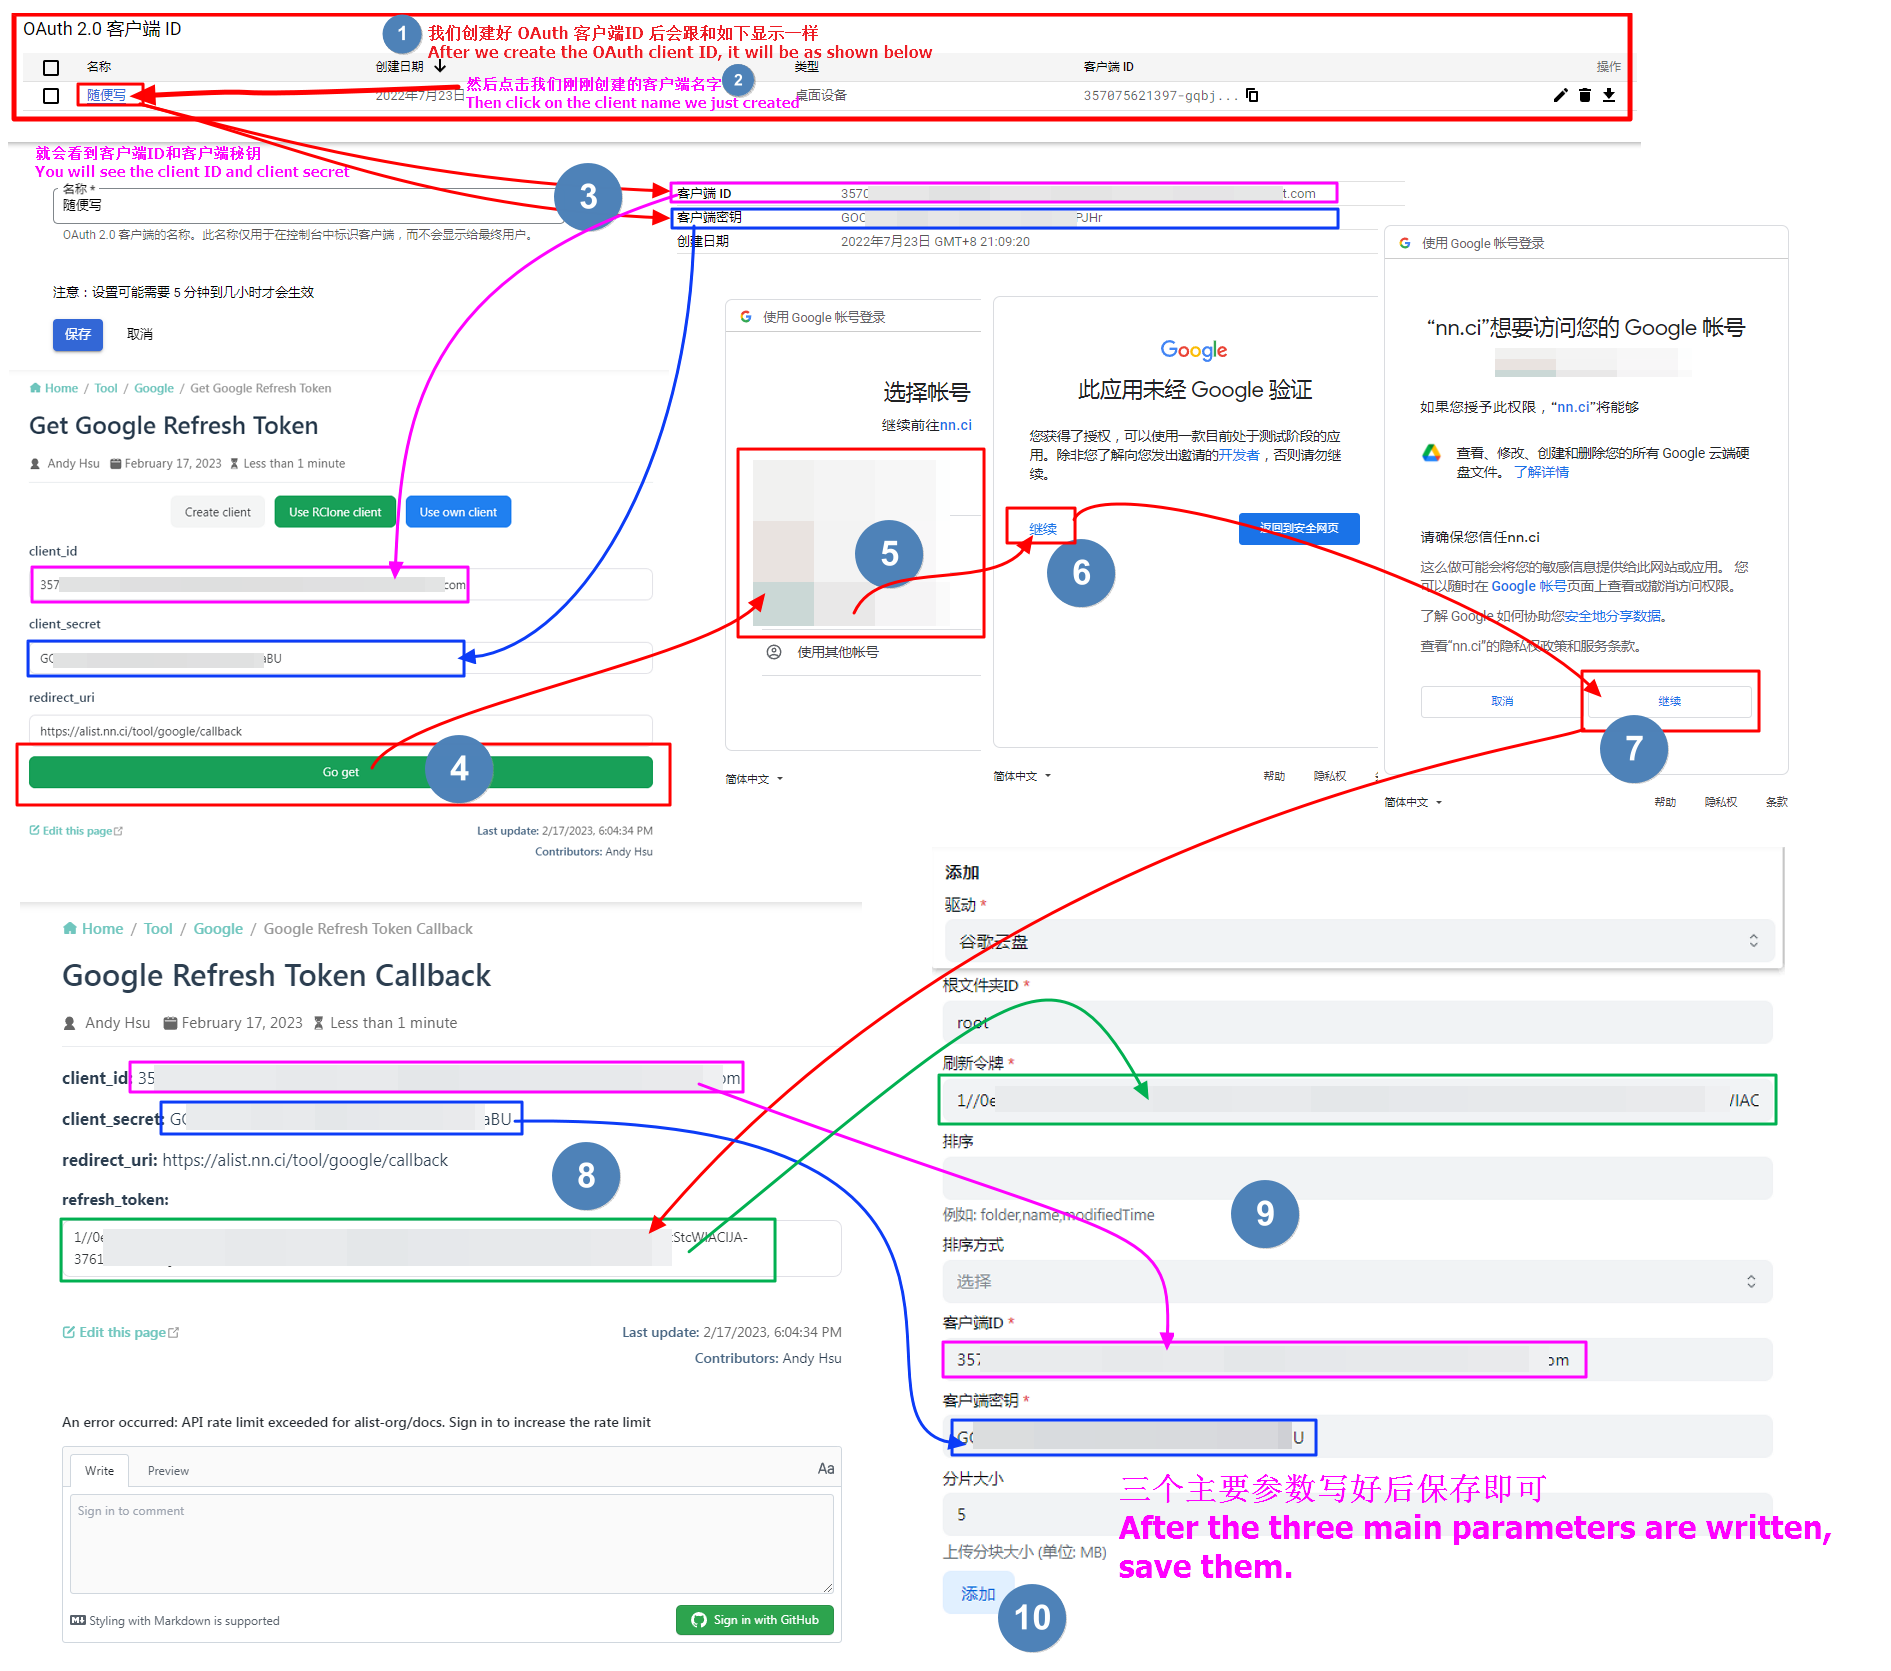
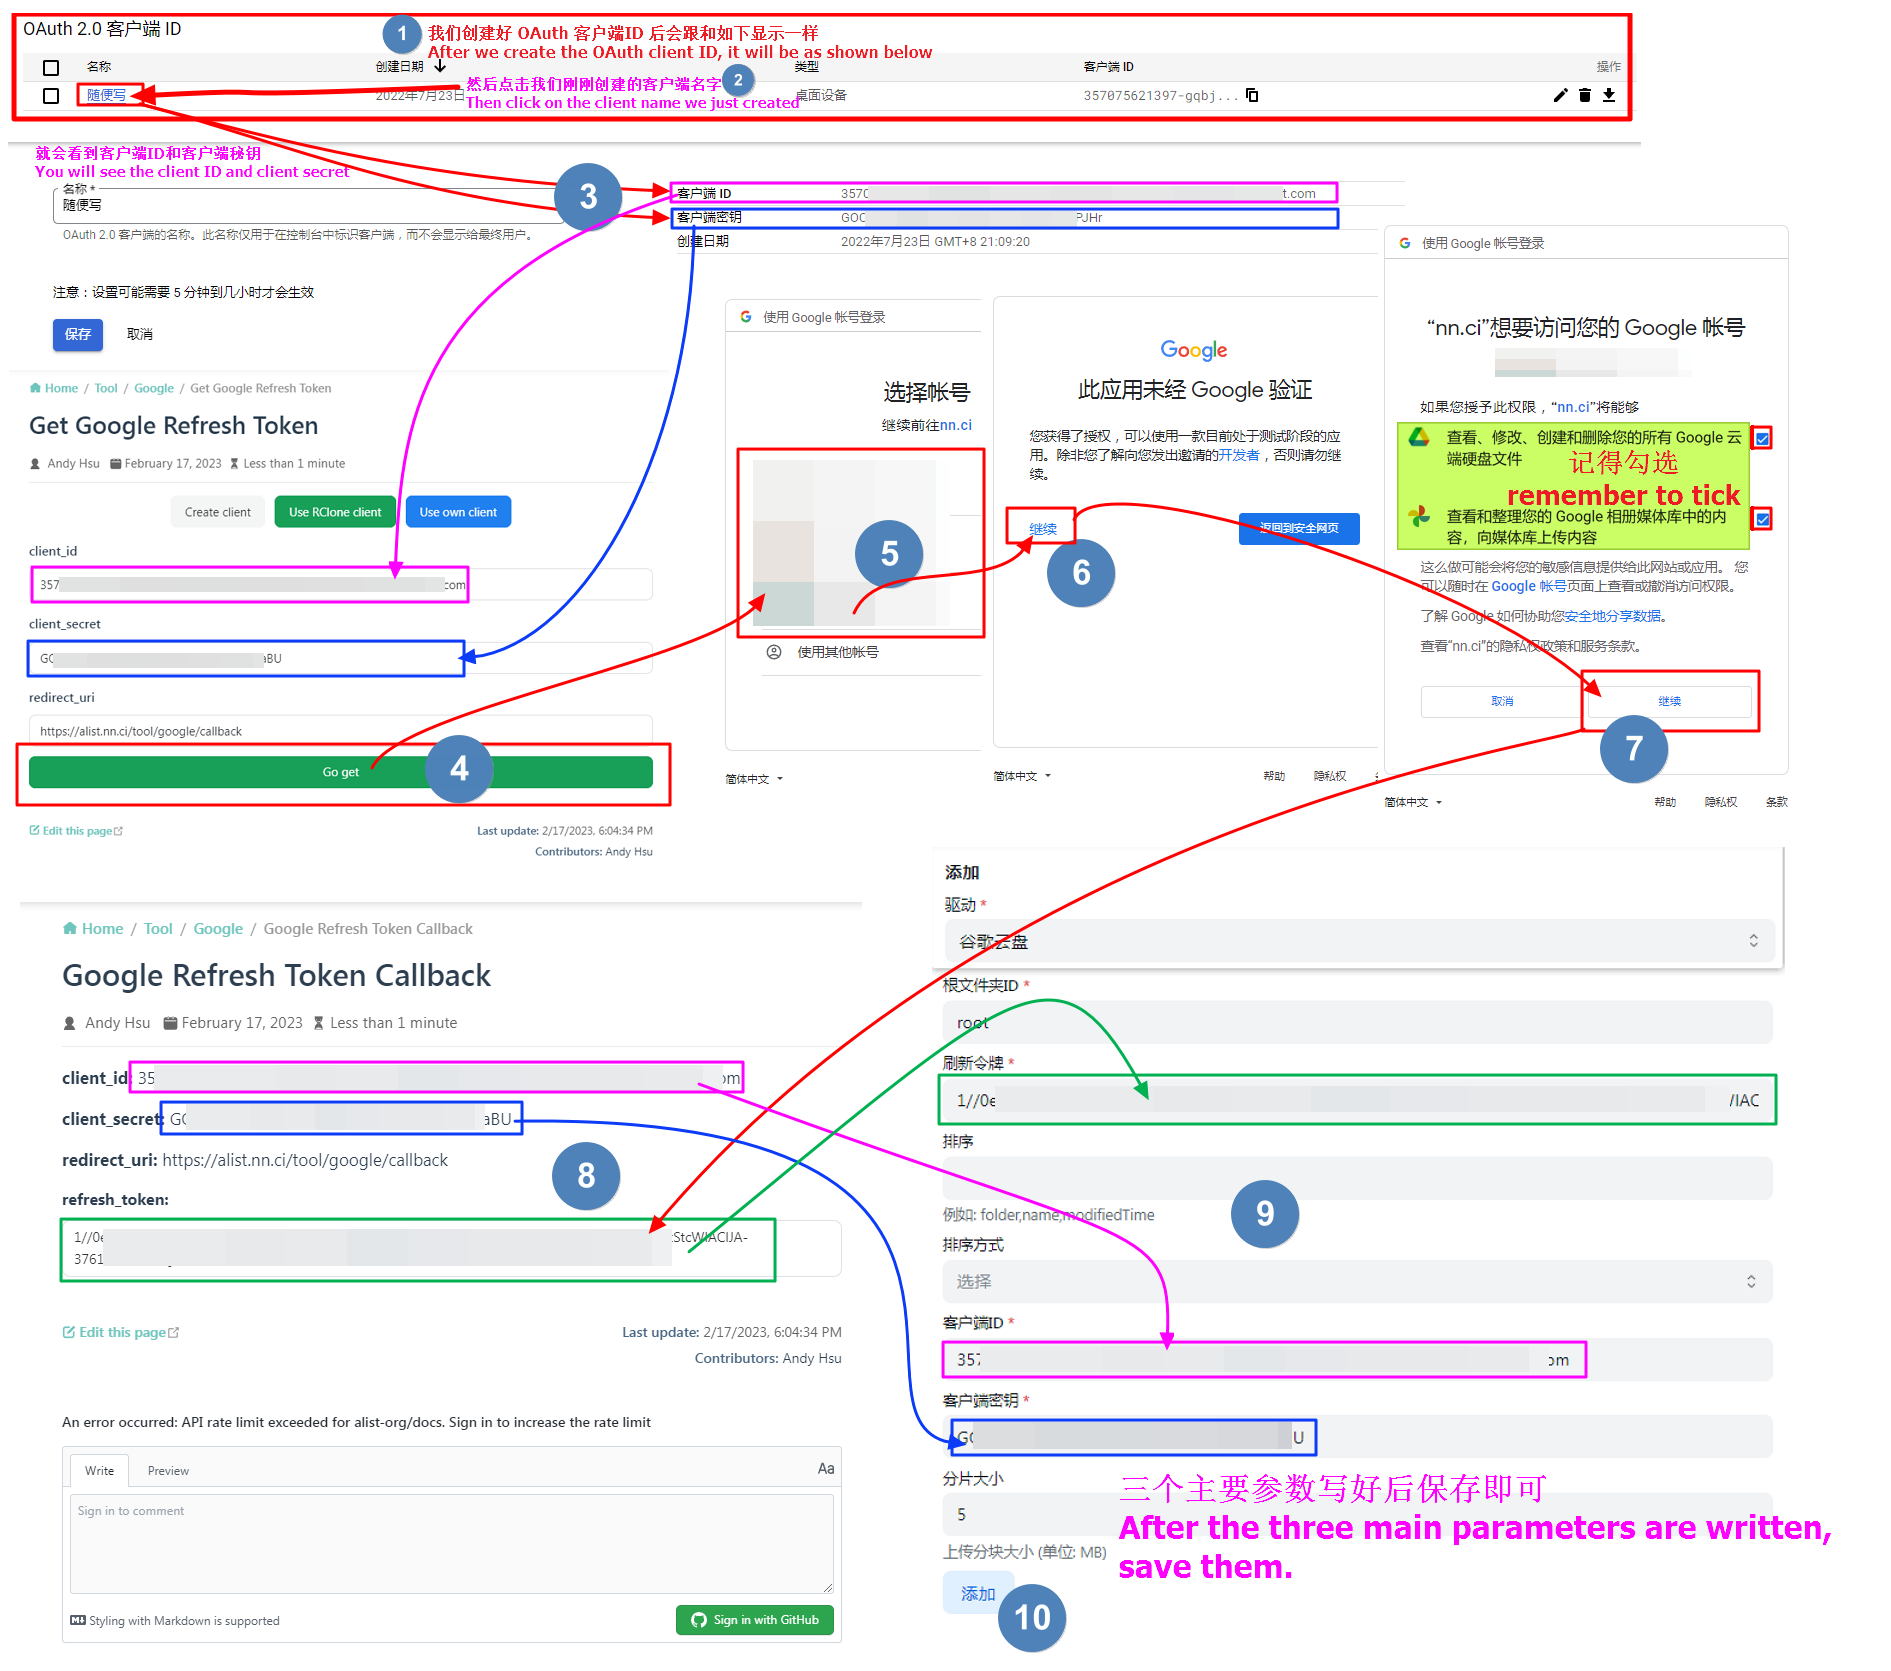
update Google Photos (#156)
* add webdav and add user introduce

* fix google driver Docs

* add qb-dw man

* fix google photos and other

* use scoped to fix style

* fix qB Docs

* add ipa install demo

* fix ipa docs

* add baidu How to modify ua

* revert

* Compatibility with Google Photos Docs,update baidu Demo

---------

Changed region(s): [[0.7176, 0.249, 0.936, 0.3423]]

diff --git a/docs/guide/drivers/googlephotos.md b/docs/guide/drivers/googlephotos.md
@@ -18,11 +18,13 @@ star: true
 
 # Google Photos
 
-### Root folder file_id
+## Root folder file_id
 
 The root directory is root, and other directory IDs are unknown (~~It seems that a separate album cannot be mounted~~ It has not been resolved yet [**Reference**](https://github.com/alist-org/alist/discussions/3264#discussioncomment-4874536))
 
-### Get client_id, client_secret
+
+
+## Get client_id, client_secret
 
 Get the tool https://alist.nn.ci/tool/google/request
 
@@ -48,7 +50,24 @@ Remember to enable **`Photos Library API`**
 
 - https://console.cloud.google.com/apis/library/photoslibrary.googleapis.com
 
-### Two notes:
+
+
+## Mount a single album directory
+
+According to [above](https://alist.nn.ci/tool/google/request) obtained **client ID** and **secret key** and **refresh_token**
+
+We fill in **https://alist.nn.ci/tool/google/album** to get a single catalog ID for each of our Google Photos
+
+- Root file ID (that is, the album ID): default root, display all, if you only want to display a single album, you can fill in the album ID you want to display
+- After we fill in, there will also be an **`access_token`** below. This can also be filled in the Alist background refresh token option and used. The refresh token obtained at the beginning can be used for both of them- [Explanation]( https://github.com/alist-org/alist/discussions/3264#discussioncomment-5051171)
+
+#### Fill in the example diagram
+
+![Googlephotos](/img/drivers/google/Google-photos3.png)#get-client-id-client-secret)
+
+
+
+## Two notes:
 
 1. failed get objs: failed to list objs: Request had insufficient authentication scopes.: []
     - It's because you didn't check the album permission (see the picture mentioned above) `view and organize the content in your Google Photos media library, and upload content to the media library when obtaining authorization. Learn more`

diff --git a/docs/zh/guide/drivers/googlephotos.md b/docs/zh/guide/drivers/googlephotos.md
@@ -18,11 +18,13 @@ star: true
 
 # 谷歌相册
 
-### 根目录ID
+## 根目录ID
 
-根目录root，其他目录ID未知( ~~貌似不能挂载单独的相册~~ 还未解决[**参考**](https://github.com/alist-org/alist/discussions/3264#discussioncomment-4874536))
+根目录root，其他目录ID未知( ~~貌似不能挂载单独的相册~~ 已解决下面有介绍)
 
-### 获取 client_id, client_secret
+
+
+## 获取 client_id, client_secret
 
 获取工具 https://alist.nn.ci/tool/google/request
 
@@ -48,7 +50,24 @@ star: true
 
 - **https://console.cloud.google.com/apis/library/photoslibrary.googleapis.com?project=instant-shard-350513**
 
-### 两个注意事项：
+
+
+## 挂载单个相册目录
+
+根据[上面](https://alist.nn.ci/tool/google/request)获取到的**客户端ID**和**秘钥**和**刷新令牌**
+
+我们填写到 **https://alist.nn.ci/tool/google/album** 即可获取我们每个相册的单个目录ID
+
+- 根文件ID（就是相册ID）：默认root，展示全部，若只想展示单个相册，可以填写你想展示的相册ID
+- 在我们填写后下方也会出现一个 **`access_token`** 这个也可以填写到刷新令牌里面前使用和之前获取到的，这两个都可以用 - [解释](https://github.com/alist-org/alist/discussions/3264#discussioncomment-5051171) 
+
+#### 填写示意图
+
+![Googlephotos](/img/drivers/google/Google-photos3.png)
+
+
+
+## 两个注意事项：
 
 1. failed get objs: failed to list objs: Request had insufficient authentication scopes.: []
    - 是因为在获取授权的时候没有勾选 相册权限（查看上面提到的图片） `查看和整理您的Google相册媒体库中的内容,向媒体库上传内容。`

diff --git a/docs/zh/guide/drivers/baidu.md b/docs/zh/guide/drivers/baidu.md
@@ -46,7 +46,9 @@ curl -L -X GET 'YOUR_LINK' -H 'User-Agent:pan.baidu.com'
 
 
 
-::: details 如果你不会设置 **`"User-Agent"`** 请看这里
+### 添加 "User-Agent" 使用示例
+
+:::: details 如果你不会设置 "User-Agent" 请看这里
 
  ==以下方法仅限于有百度超级会员用户使用== 
 
@@ -54,21 +56,31 @@ curl -L -X GET 'YOUR_LINK' -H 'User-Agent:pan.baidu.com'
 
 有会员改完 **`"User-Agent"`** 才会有用（选择官方和302）
 
-如果不改**`"User-Agent"`**，可以开启 ==Web代理==，缺点是需要你搭建Alist的机器中转，也就是说你需要大宽带帮你中转
+如果不改 **`"User-Agent"`**，可以开启 ==Web代理==，缺点是需要你搭建Alist的机器中转，也就是说你需要大宽带帮你中转
 
-#### 方法1 - 使用浏览器插件
+
+
+:::tabs#ua
+
+@tab 网页插件
+
+- 使用浏览器插件修改的好处是 可以直接在线播放，当然了下载也是可以的。
 
 实在不会的可以看看一个Web网页端的例子： **https://www.bilibili.com/video/BV1UA4y1X7J8**
 
 ![alist](/img/drivers/baidu/bdUA.png)
 
-#### 方法2 - 使用IDM - Internet Download Manager
+@tab IDM
 
 ![alist](/img/drivers/baidu/idm-ua.png)
 
-#### 方法3 - 使用Aria2
+@tab Aria2
 
 ![alist](/img/drivers/baidu/aria2-ua.png)
 
 :::
+
+
+
+::::
 

diff --git a/docs/guide/drivers/baidu.md b/docs/guide/drivers/baidu.md
@@ -39,7 +39,9 @@ The root foler to mount, defaults to `/`, same as local storage.
 
 
 
-::: details If you don't know how to set **`"User-Agent"`** see here
+### Add "User-Agent" usage example
+
+:::: details If you don't know how to set **`"User-Agent"`** see here
 
  ==The following methods are limited to Baidu super member users== 
 
@@ -49,18 +51,27 @@ It will only be useful if a member finishes modifying **`"User-Agent"`** (choose
 
 If you don’t change **`"User-Agent"`**, you can enable ==Web Agent==, the disadvantage is that you need to build an Alist machine for transfer, that is to say, you need a large broadband to help you transfer
 
-#### Method 1 - Using a browser plugin
 
-If you really don’t know how to do it, you can take a look at an example on the Web page: **https://www.bilibili.com/video/BV1UA4y1X7J8**
+
+:::tabs#ua
+
+@tab Web plugin
+
+- The advantage of using a browser plug-in to modify is that it can be played directly online, of course, downloading is also possible.
 
 ![alist](/img/drivers/baidu/bdUA.png)
 
-#### Method 2 - Using IDM - Internet Download Manager
+@tab IDM
 
 ![alist](/img/drivers/baidu/idm-ua.png)
 
-#### Method 3 - Using Aria2
+@tab Aria2
 
 ![alist](/img/drivers/baidu/aria2-ua.png)
 
 :::
+
+
+
+::::
+

diff --git a/docs/guide/drivers/common.md b/docs/guide/drivers/common.md
@@ -79,8 +79,9 @@ The workers code can be found at https://github.com/alist-org/alist-proxy/blob/m
 - ADDRESS: your Alist address, The protocol header must be added, and cannot be followed by /. Such as `https://pan.nn.ci`;
 - TOKEN: you can get in `Other settings` in your Alist manage page.
 
-
 :warning: Cloudflare Workers free CDN supports domestic only **http80 port** and **https443 port**，From group friend test
+
+- When mounting the configuration in the Alist background, fill in the **download proxy URL** at the end of the link without `/`
 
 @tab Universal Binary
 You can also use another machine for proxying, download the program at https://github.com/alist-org/alist-proxy/releases

diff --git a/docs/zh/guide/drivers/common.md b/docs/zh/guide/drivers/common.md
@@ -81,8 +81,9 @@ Workers 代码可以在 https://github.com/alist-org/alist-proxy/blob/main/alist
 - ADDRESS: 你的 AList 地址，必须加上协议头，后面不能跟 `/`。如 `https://pan.nn.ci`；
 - TOKEN: 在 AList 管理页面中进入“其他设置”得到。
 
-
 :warning: Cloudflare Workers 免费CDN支持兼容国内的只有 **http80端口** 和 **https443端口**，来自群友测试
+
+- 在Alist后台挂载配置时 填写 **下载代理URL** 时候的 链接结尾 不可以带 `/`
 
 
 @tab 通用二进制
